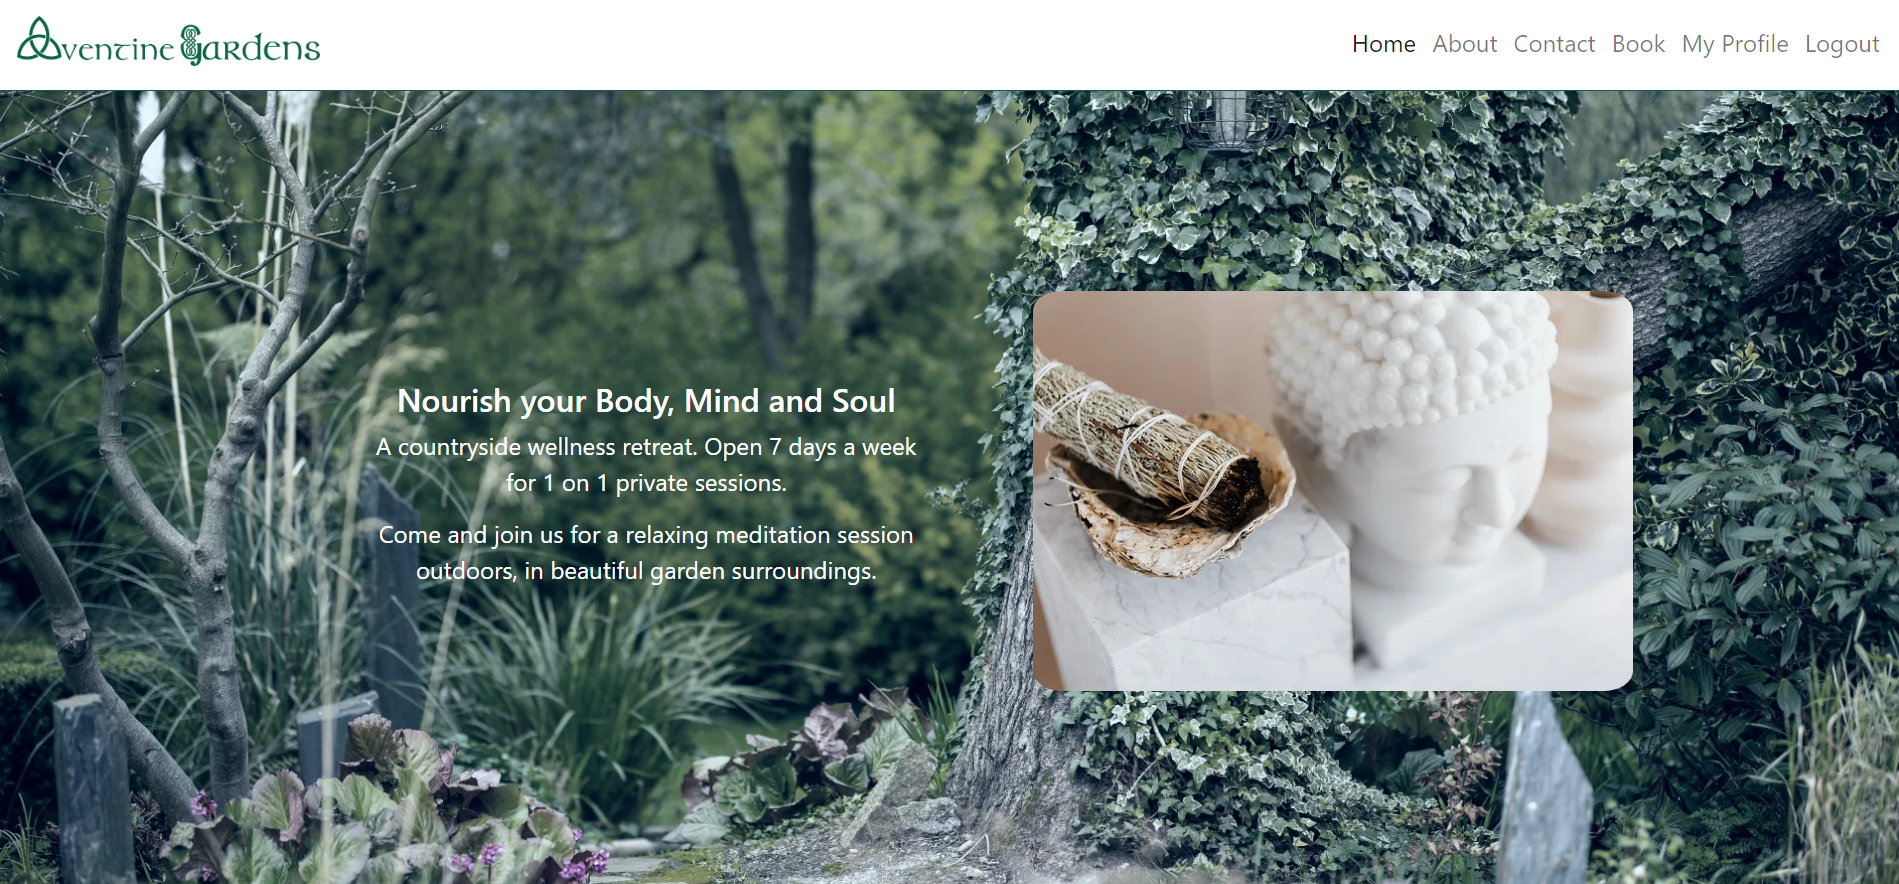
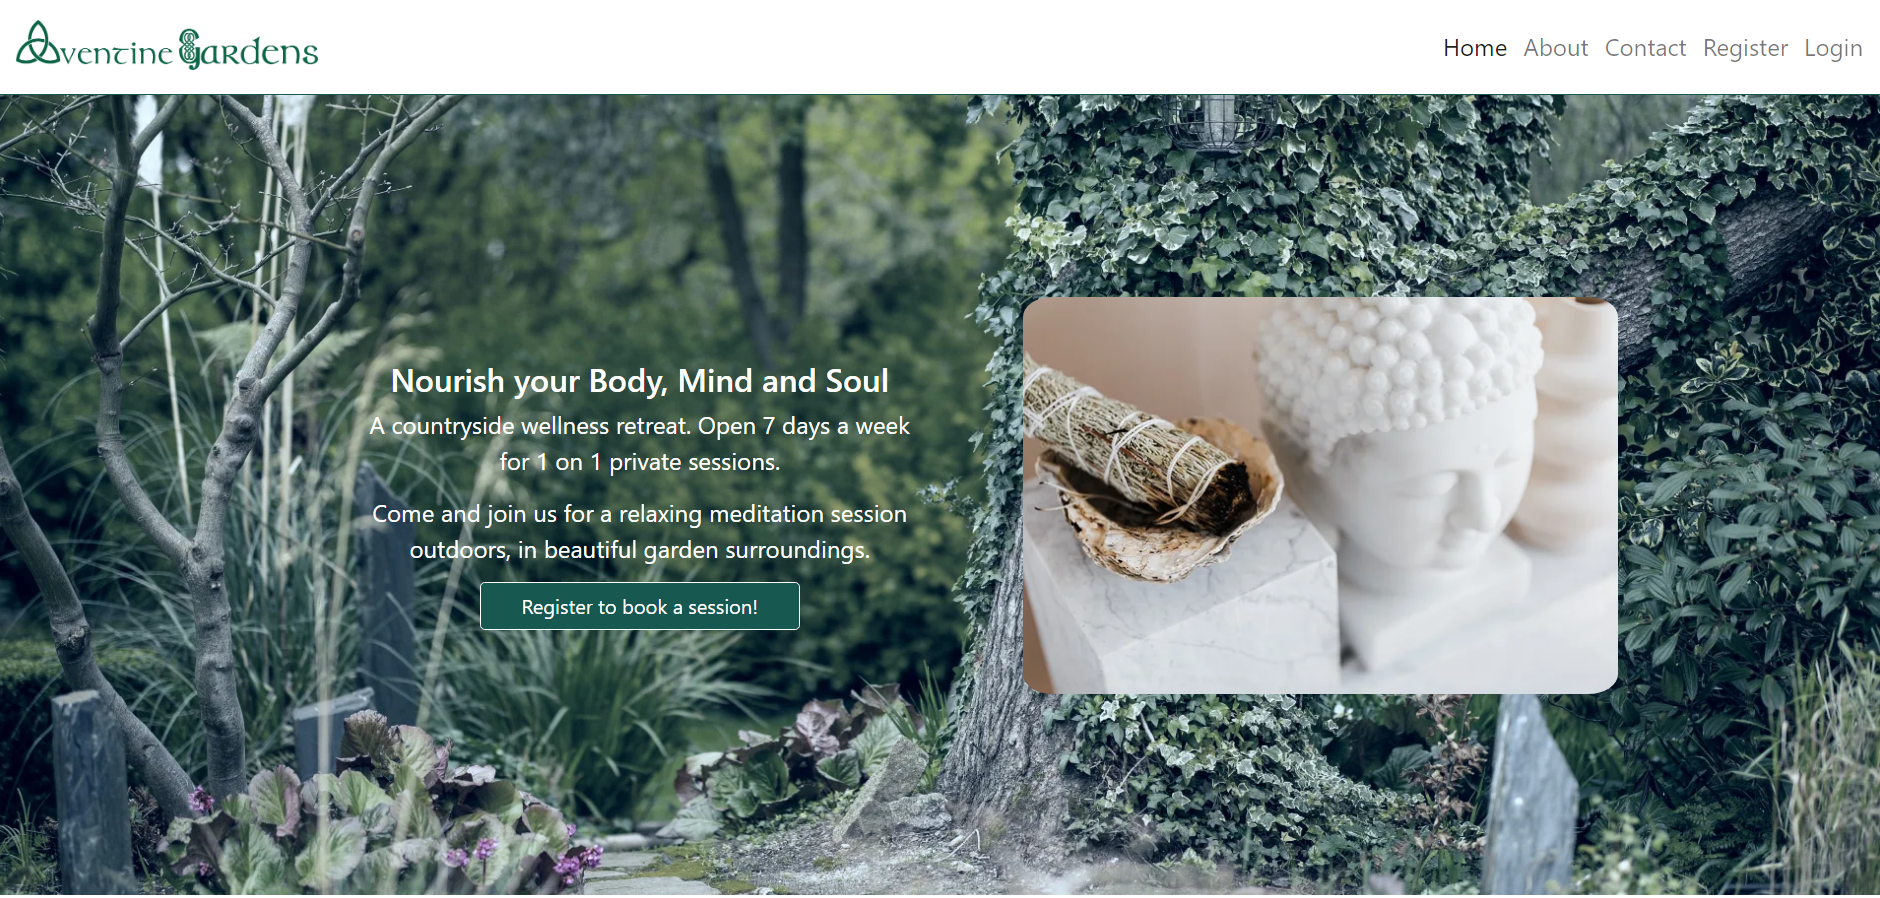
docs: Add home page images to README.md

diff --git a/README.md b/README.md
@@ -45,8 +45,10 @@ Welcome to Aventine Gardens! This website was built using Django, with custom Py
 
 ### Home
 ![Hero Image](documentation/images/home-page.png)
-- The home page features a feature image, with some text explaining the main purpose of the website and a small image to compliment the text.
-- Along with this is a link to create a profile which will promote booking an appointment to visitors.
+- The home page features a hero image, with some text explaining the main purpose of the website and a small image to compliment the text.
+- Along with this is a link. This link will ask the visitor to create a profile to book an apppointment if they're not logged in. If they are a logged in user, this link will instead suggest they book an appointment.
+![Hero Link Logged In](documentation/images/home-btn.png)
+![Hero Link Not Logged In](documentation/images/home-btn-register.png)
 
 ### Classes and Subclasses
 - The player will be asked to enter their name first and then they are given a choice of which Destiny Class they would like to be, as well as their subclass. These choices are then stored in a Google Sheets Worksheet, allowing this data to be pulled later on in the game to reference the player.
